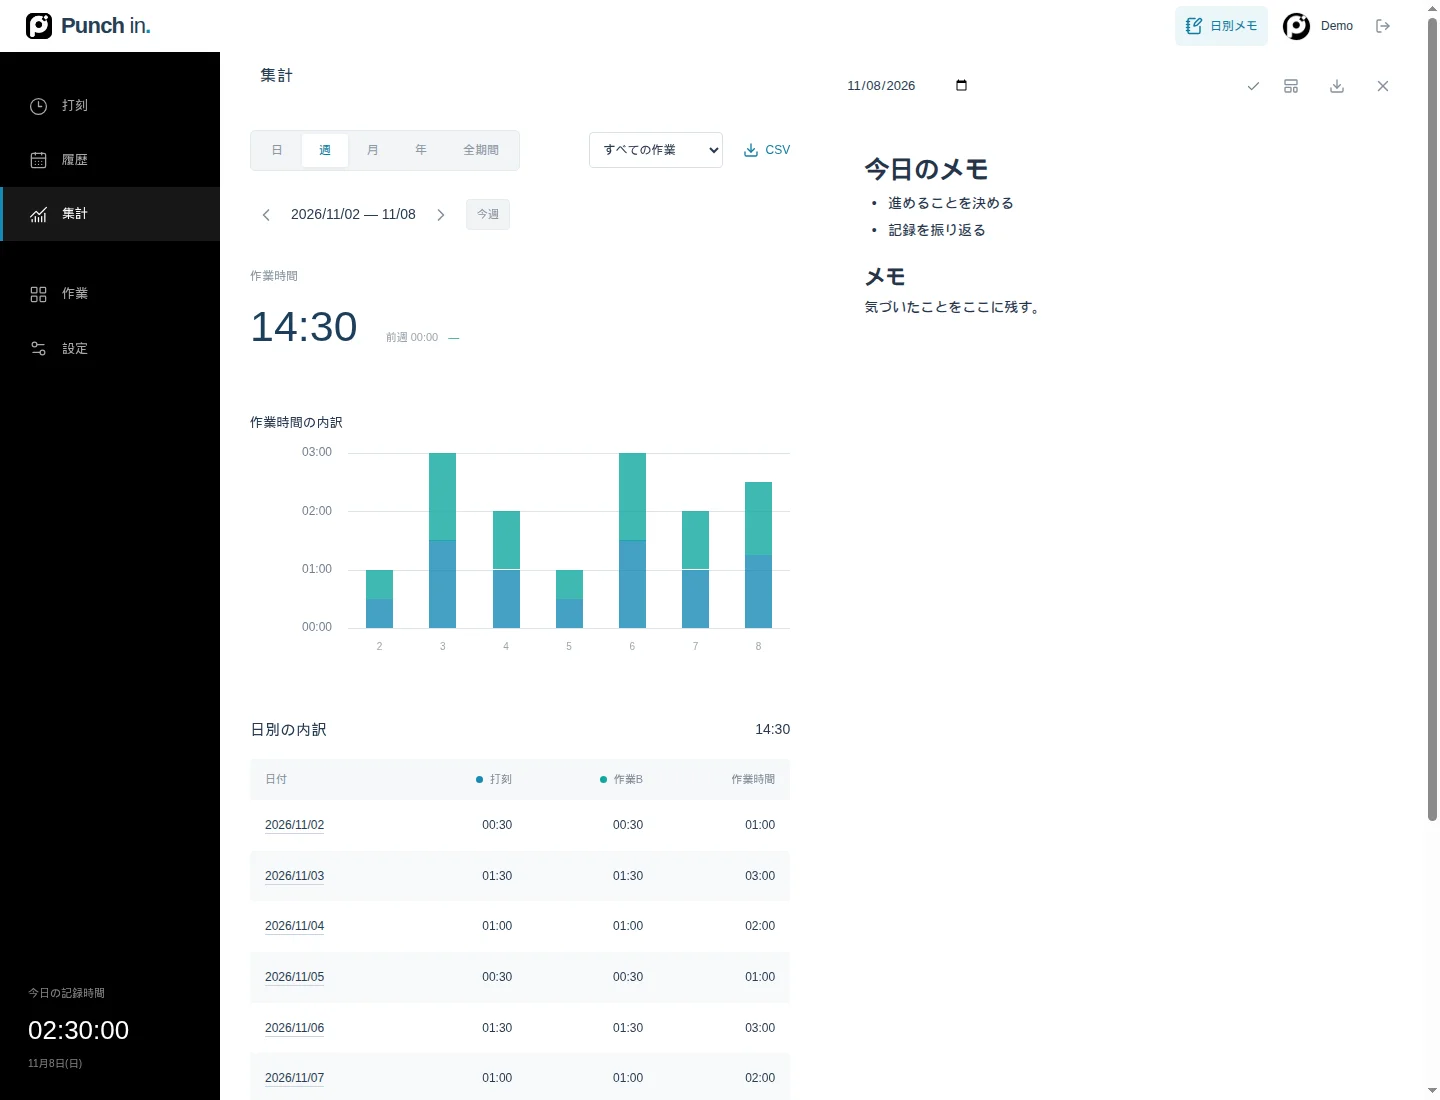
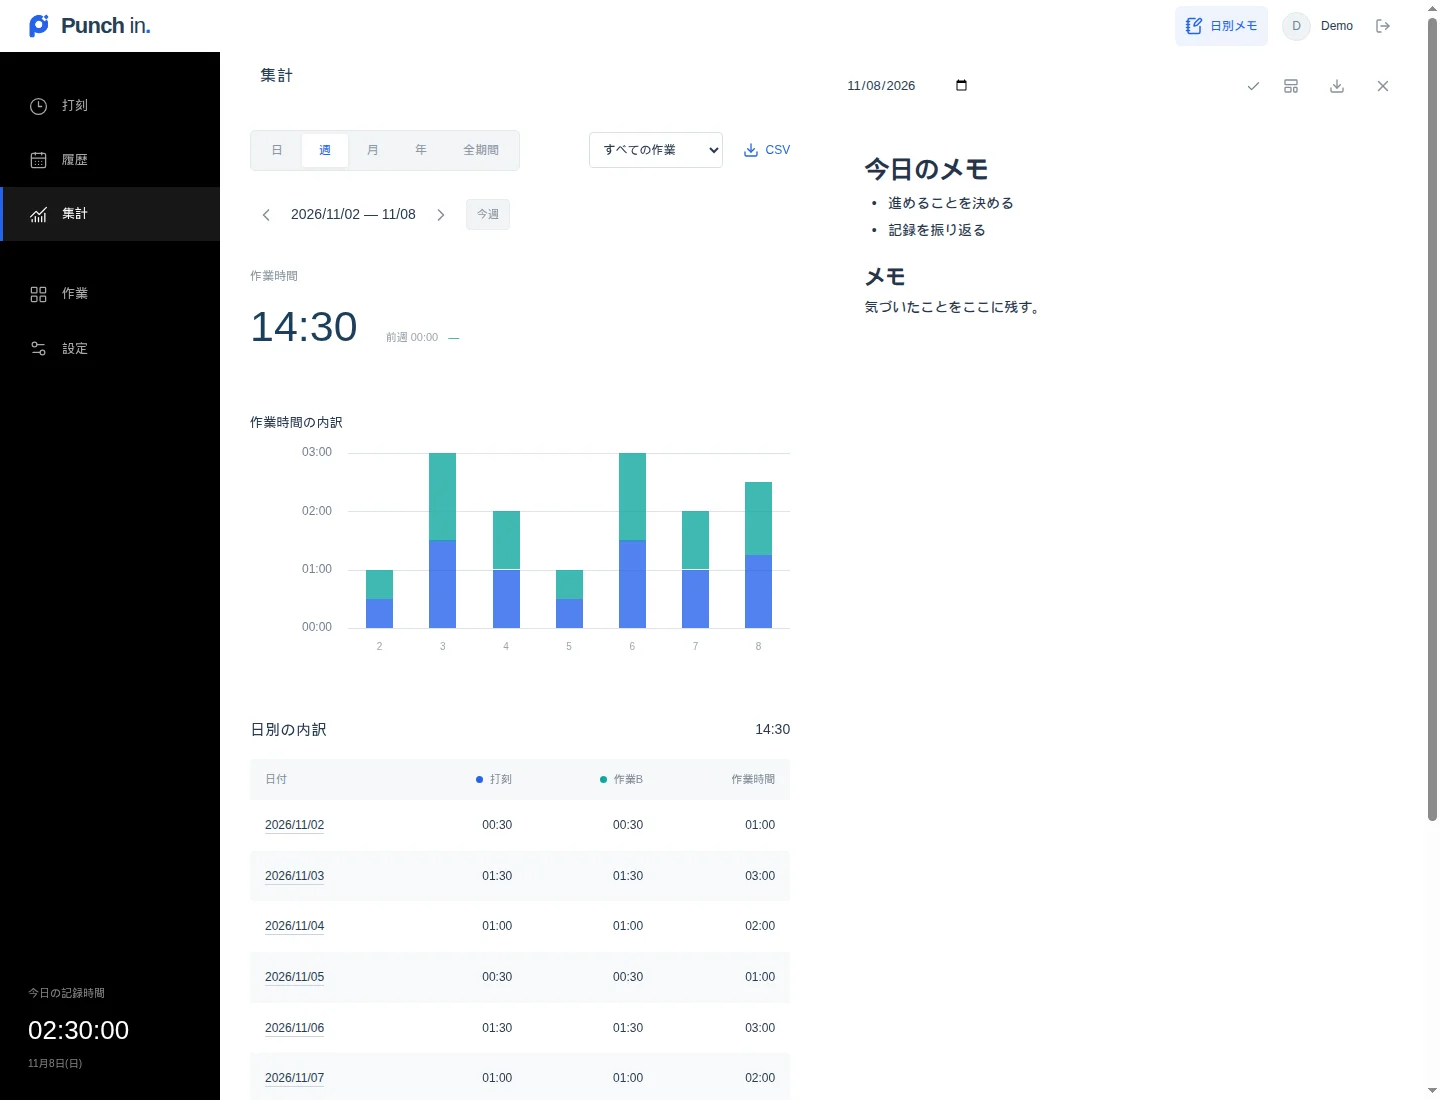
docs: READMEを要点に絞り最新の画面画像へ更新

Changed region(s): [[0.25, 0.4945, 0.5625, 0.5873], [0.875, 0.0, 0.9062, 0.0309], [0.0, 0.0, 0.0312, 0.0309]]

diff --git a/README.md b/README.md
@@ -1,98 +1,33 @@
 # Punch in
 
-**ChatGPT Sitesを使って作成した、個人向けの時間記録アプリです。**
+ChatGPT Sitesで作成した、個人向けの時間記録アプリ。
+ボタンで記録し、メモと集計で振り返れます。
 
-ボタンを押して、時間を記録する。自分に合う名前や色、1日の区切りを設定し、記録とメモをまとめて振り返れます。
+![打刻と日別メモ](docs/images/punch.webp)
 
-右上のアイコンから、表示名とプロフィール画像を変更できます。
+## できること
 
-## 画面
-
-### 打刻と日別メモ
-
-時計の下に打刻ボタン、右側に日別メモ。見出し・リスト・コード・表を、表示された見た目のまま編集できます。メモは自動保存され、チェックで保存状態を確認できます。共通ヘッダーからどの画面でも開けて、画面を移動しても選んだ日付と入力状態を維持します。並行中の作業は、まとめて一時停止・再開・終了できます。
-
-![打刻画面。丸いボタン、並行作業をまとめた今日の記録、直接編集できる日別メモ](docs/images/punch.webp)
+- 作業ボタンの追加・並び替え・色の変更
+- 並行作業の計測、一時停止・再開、時間の配分
+- 作業ごとのメモ、日別Markdownメモ、テンプレート
+- 週の履歴・タイムライン、期間別のグラフ・集計表
+- 1日の区切り・テーマ・プロフィールの設定
+- JSONでの引き継ぎ、CSV・Markdownの出力
 
 <details>
-<summary>履歴を見る</summary>
+<summary>履歴と集計の画面</summary>
 
-履歴は1週間ごとのページに7日分を表示。開くと週タイムラインを表示し、今日を薄く強調します。7日分をまとめて横スクロールし、拡大・縮小して時間帯を確認できます。タイムラインの日付から該当日の履歴へ移動でき、一覧の日付行から日別メモを開けます。同じ日の記録と並行した各作業は、開始が早い順に表示します。作業時間と開始・終了時刻を右側にそろえ、メモ欄に直接入力でき、行末から記録の編集・削除ができ、並行記録は作業ごとの削除と全体削除を選べます。
+![週の履歴](docs/images/history.webp)
 
-![履歴画面。上部の週タイムライン、日付ごとの記録一覧、打刻ごとに分かれたメモ](docs/images/history.webp)
+![期間別の集計](docs/images/stats.webp)
 
 </details>
 
-<details>
-<summary>集計を見る</summary>
+初期ボタンは「打刻」1つ。画像は表示用のサンプルデータです。
+[アプリ](https://punch-in-personal.linenhatch1.chatgpt.site)は現在、所有者限定で公開しています。
 
-日・週・月・年・全期間を切り替え、作業時間と作業別の内訳をグラフと表で確認できます。今日の行は薄い色で表示します。時間に対応する横の目盛り線から棒の高さを読み取れます。棒にカーソルを合わせると、対象の棒を隠さずに内訳を表示し、クリックすると該当する履歴に移動します。
+## 開発・資料
 
-![週の集計画面。作業別の積み上げグラフ、日別の時間表、作業別の合計](docs/images/stats.webp)
+React / TypeScript / Vinext · Cloudflare Workers / D1 / R2 · Sign in with ChatGPT
 
-</details>
-
-画面は実際のアプリをローカルで起動し、表示用のサンプルデータで撮影しています。初期状態のボタンは「打刻」1つです。
-
-今日の記録は直近5件を開始が早い順に表示します。今日の記録・履歴の作業メモは全文を表示し、内容に合わせて入力欄が伸びます。
-
-## 主な機能
-
-- **ひと押しで記録** — 別の作業ボタンを押すだけで並行追加。同じボタンで対象作業だけ終了し、一時停止中なら再開。並行中はまとめて一時停止・再開・終了も可能。一時停止後の終了は、最後に計測した時刻で確定。
-- **自分に合う設定** — ボタンの追加・編集・非表示、設定一覧でのドラッグ並び替え、ボタンとテーマの色、1日の開始時刻、タイムゾーン。
-- **記録とメモ** — 履歴検索、日付行からの追加、ホイールまたは直接入力での日時修正、打刻ごとのメモ、日別ブロックメモの自動保存とMarkdown出力。
-- **日別メモのテンプレート** — 作成・編集・複製・削除、初回の自動挿入、別テンプレートへの変更。
-- **時間を配分** — 並行した区間を均等配分。終了後に比率や作業ごとの時間を編集。打刻・履歴のまとまりは重複なしの「記録時間」、各作業と集計は配分後の「作業時間」を表示。
-- **振り返り** — 期間別・作業別の合計、タイムライン、グラフ、分単位の集計表、前期間との比較。
-- **データを引き継ぐ** — 構造を保持するJSONバックアップ・復元、日別メモのMarkdown出力、履歴と集計のCSV出力。再実装時の移行仕様も公開。
-- **画面幅に対応** — 狭い画面ではサイドバーを格納し、丸い打刻ボタンを維持。メモは下に並びます。
-
-終了後に同じ作業を打刻すると、同じグループ内へ新しい開始・終了・メモを持つ記録を追加します。一時停止からの再開は同じ記録を継続します。
-
-日の区切りをまたいだ記録は、開始した記録日にまとめて計上します。終了忘れ通知は、アプリを開いている間に利用できます。
-
-## メモの操作
-
-- ブロック左の六点ボタンから、本文・見出し・リスト・コード・引用への変更や表の挿入。
-- リストでは`Tab`で1段インデント、`Shift + Tab`で1段戻す。`Enter`で次の項目へ。
-- `/`で挿入メニュー。`# `で見出し、`- `で箇条書き。
-- Windows/Linuxは`Ctrl + Shift + 数字`、Macは`Cmd + Option + 数字`で変換。
-
-| 数字 | 種類 |
-| --- | --- |
-| `0` | 本文 |
-| `1`〜`3` | 見出し1〜3 |
-| `4` | チェックリスト |
-| `5` | 箇条書き |
-| `6` | 番号付きリスト |
-| `7` | 折りたたみ |
-| `8` | コード |
-
-履歴をスクロールしても、開いているメモの日付は変わりません。既存のMarkdownメモは、初めて編集した際に原文を残して移行します。
-
-## 技術構成
-
-| 領域 | 使用技術 |
-| --- | --- |
-| 作成・ホスティング | ChatGPT Sites |
-| フロントエンド | React / TypeScript / Vinext |
-| 実行環境・データベース | Cloudflare Workers / D1 / R2 |
-| 認証 | Sign in with ChatGPT |
-| メモエディター | BlockNote / ProseMirror |
-
-現在の[Sites版](https://punch-in-personal.linenhatch1.chatgpt.site)は所有者限定です。GitHubのソース公開とアプリの閲覧範囲は別に管理しています。
-
-## 開発・引き継ぎ
-
-Node.js 22.13.0以上を使用します。ローカルDBの準備、起動、検証、Sitesへの反映は[開発ガイド](docs/DEVELOPMENT.md)を参照してください。
-
-| ドキュメント | 内容 |
-| --- | --- |
-| [開発ガイド](docs/DEVELOPMENT.md) | 環境構築・起動・テスト・ソース構成・公開手順 |
-| [アーキテクチャ](docs/ARCHITECTURE.md) | 層の責務・依存方向・用語・保存の保証 |
-| [仕様](docs/SPEC.md) | 打刻、記録日、メモ、集計、画面の振る舞い |
-| [APIとデータ移行](docs/API.md) | API、JSON形式、データの引き継ぎ |
-| [再実装・運用の引き継ぎ](docs/HANDOVER.md) | 設計判断と別の構成へ移行するときの注意点 |
-| [パフォーマンス](docs/PERFORMANCE.md) | 打刻処理の設計と測定結果 |
-| [検証記録](docs/VALIDATION.md) | 実施したテストと確認範囲 |
-| [公開前の確認](docs/SECURITY-REVIEW.md) | 秘密情報の確認範囲と結果 |
+[開発ガイド](docs/DEVELOPMENT.md) · [構成](docs/ARCHITECTURE.md) · [仕様](docs/SPEC.md) · [メモの操作](docs/MEMO.md) · [API・移行](docs/API.md) · [引き継ぎ](docs/HANDOVER.md)

diff --git a/docs/MEMO.md b/docs/MEMO.md
@@ -1,0 +1,22 @@
+# メモの操作
+
+[READMEへ戻る](../README.md)
+
+
+- ブロック左の六点ボタンから、本文・見出し・リスト・コード・引用への変更や表の挿入。
+- リストでは`Tab`で1段インデント、`Shift + Tab`で1段戻す。`Enter`で次の項目へ。
+- `/`で挿入メニュー。`# `で見出し、`- `で箇条書き。
+- Windows/Linuxは`Ctrl + Shift + 数字`、Macは`Cmd + Option + 数字`で変換。
+
+| 数字 | 種類 |
+| --- | --- |
+| `0` | 本文 |
+| `1`〜`3` | 見出し1〜3 |
+| `4` | チェックリスト |
+| `5` | 箇条書き |
+| `6` | 番号付きリスト |
+| `7` | 折りたたみ |
+| `8` | コード |
+
+履歴をスクロールしても、開いているメモの日付は変わりません。既存のMarkdownメモは、初めて編集した際に原文を残して移行します。
+

diff --git a/docs/images/README.md b/docs/images/README.md
@@ -12,4 +12,4 @@
 
 画像はREADMEから相対パスで参照します。UIを変更したときは、ローカルの表示用データを使い、個人情報を写さず更新してください。
 
-これらの画面画像はブランド色の変更前に撮影したものです。現行のロゴは透明背景・#2563ebです。
+透明背景・#2563ebの現行ロゴと初期カラーで撮影しています。
